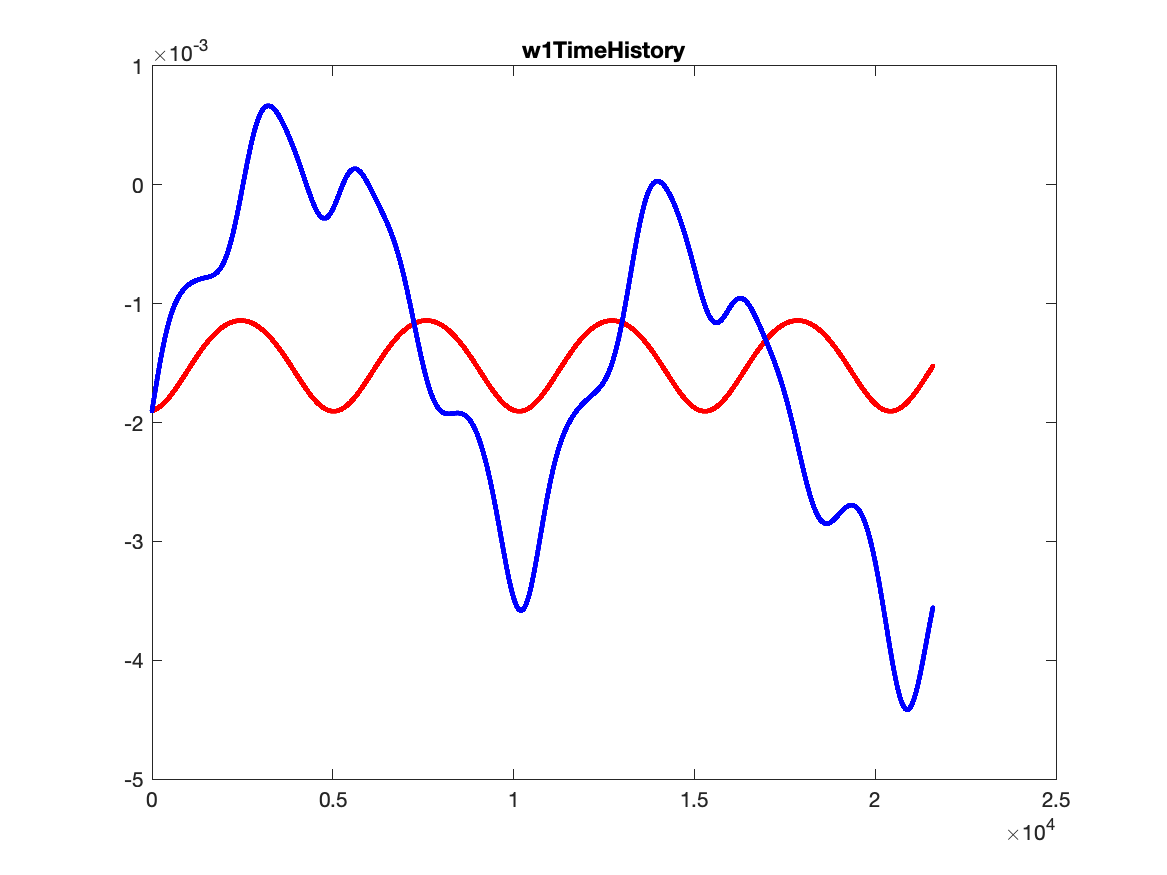
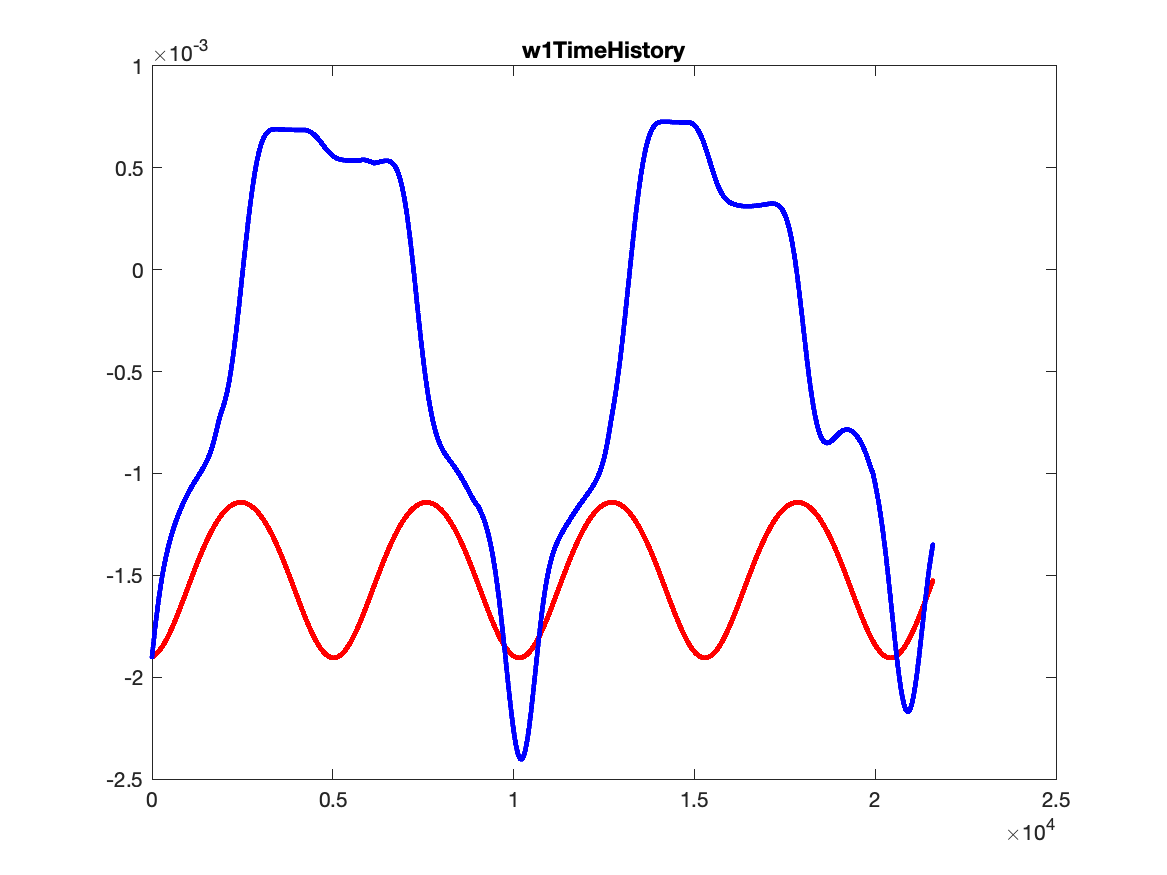
just create gprAtti_euler.m without deep considering

diff --git a/gpr/gprAtti_euler.m b/gpr/gprAtti_euler.m
@@ -39,26 +39,26 @@ t_mApp = readmatrix('train_data_using_yoshimulibrary/t_mApp_flatPlate002.csv');
 Dp_test = readmatrix('train_data_using_yoshimulibrary/Dp_flatPlate001.csv'); 
 t_mApp_test = readmatrix('train_data_using_yoshimulibrary/t_mApp_flatPlate001.csv');
 
-xtrain = [q2zyx_h(Dp(:,1:4)) Dp(:,5:7)]; % 学習データの入力
-xtest = Dp_test(:,1:7); % テストデータの入力
+xtrain = [q2zyx_h(Dp(:,1:4)) Dp(:,5:7)]; % 学習データの入力 (Euler angleに変換)
+xtest = [q2zyx_h(Dp_test(:,1:4)) Dp_test(:,5:7)]; % テストデータの入力 (Euler angleに変換)
 
 % 学習データ，テストデータの出力（姿勢，ライトカーブ）
 Lx = length(xtrain(1,:)); Ly = Lx + 1; % 出力の次元はライトカーブで1増える
 Ntrain = length(xtrain(:,1)) - 1; Ntest = length(xtest) - 1; %今回扱う学習データの次元とデータ数(出力が差分だから-1)
-ytrain = zeros(Ntrain, Ly); ytest = zeros(Ntest, Ly); % 
+ytrain = zeros(Ntrain, Ly); ytest = zeros(Ntest, Ly);
 for i = 1:1:(Ntrain)
-    ytrain(i,1:4) = q_error(xtrain(i,1:4)', xtrain(i+1,1:4)')';
-    ytrain(i,5:7) = xtrain(i+1,5:7) - xtrain(i,5:7);
+    ytrain(i,1:6) = xtrain(i+1,1:6) - xtrain(i,1:6);
 %     ytrain(i,8) = t_mApp(i+1,2) - t_mApp(i,2);
-    ytrain(i,8) = t_mApp(i,2); % ライトカーブは差分じゃなくそのままを学習するようにした
+    ytrain(i,7) = t_mApp(i,2); % ライトカーブは差分じゃなくそのままを学習するようにした
 end
 for i = 1:1:Ntest
-    ytest(i,1:4) = q_error(xtest(i,1:4)', xtest(i+1,1:4)')';
-    ytest(i,5:7) = xtest(i+1,5:7) - xtest(i,5:7);
+    ytest(i,1:6) = xtest(i+1,1:6) - xtest(i,1:6);
 %     ytest(i,8) = t_mApp_test(i+1,2) - t_mApp_test(i,2);
-    ytest(i,8) = t_mApp_test(i,2);
+    ytest(i,7) = t_mApp_test(i,2);
 end
-ytrain(isnan(ytrain)) = 0; ytrain(~isfinite(ytrain)) = 0;
+ytrain(isnan(ytrain)) = 0; ytrain(~isfinite(ytrain)) = 0; % とりあえずinfとNaNは0にした
+% 学習データとテストデータの平均を0にする
+
 % 学習データとテストデータの出力は作れたので，サイズを統一する
 xtrain = xtrain(1:Ntrain,:); xtest = xtest(1:Ntest,:);
 t_mApp_test = t_mApp_test(1:Ntest,:);
@@ -75,34 +75,23 @@ kv(xtrain(2,:), xtrain, params);
 % params = optimize1(params, xtrain, ytrain);
 
 % 回帰の計算
-xx = [xtest(:, 1:7)];
+xx = xtest;
 yy_mu = zeros(Ntest, Ly); yy_var = zeros(Ntest, Ly);
 % a = gpr(xx, xtrain, ytrain(:,8), params);
 for i = 1:1:length(ytrain(1,:))
     regression = gpr(xx, xtrain, ytrain(:,i), params); % length(xx)行2列？
     yy_mu(:,i) = regression(:,1); yy_var(:,i) = regression(:,2); 
 end
-% クォータニオンの制約を満たすようにしたい
-% とりあえず正規化              
-for i = 1:1:length(yy_mu)
-    yy_mu(i,1:4) = yy_mu(i,1:4) ./ norm(yy_mu(i,1:4));
-end
 
 two_sigma1 = yy_mu - 2 * sqrt(yy_var); two_sigma2 = yy_mu + 2 * sqrt(yy_var);
 
 % 時系列順の姿勢履歴にorganize -----------------------------------------------
-attiIni = xx(1, 1:7); mAppIni = t_mApp_test(1,2);
-attiReg = zeros(Ntest, length(xx(1,:))); attiReg(1,:) = attiIni;
-attiReg_qe = zeros(Ntest, 4); attiReg_qe(1,:) = q_error(Dp_test(1,1:4)',attiReg(1,1:4)')'; % 誤差クォータニオンの初期値
-% mAppReg = zeros(Ntest, 1); mAppReg(1,1) = mAppIni; 
-mAppReg = yy_mu(:,8);
+attiIni = xx(1,:); mAppIni = t_mApp_test(1,2);
+attiReg = zeros(Ntest, Lx); attiReg(1,:) = attiIni; 
+mAppReg = yy_mu(:,Ly);
 for i = 1:1:(Ntest-1)
-    % quaternions
-    attiReg(i+1,1:4) = q_pro(attiReg(i,1:4)', yy_mu(i,1:4)')'; % 転置に注意
-    % 真値と回帰結果の誤差クォータニオンを取る．
-    attiReg_qe(i+1,1:4) = q_error(attiReg(i+1,1:4)', Dp_test(i+1,1:4)')'; % 転置に注意
-    % anglar velocity
-    attiReg(i+1,5:7) = attiReg(i,5:7) + yy_mu(i,5:7);
+    % angle and anglar velocity
+    attiReg(i+1,:) = attiReg(i,:) + yy_mu(i,1:6);
     % Light Curves
 %     mAppReg(i+1,1) = mAppReg(i,1) + yy_mu(i,8);
 end
@@ -120,7 +109,7 @@ hold on;
 plot(xx(:,1), ytest(:,1), 'r.'); % 真値？
 hold on;
 plot(xx(:,1), yy_mu(:,1), 'b.'); % 回帰結果？
-title("q1");
+title("phi");
 
 figure(f2);
 plot(xtrain(:,2), ytrain(:,2), 'k.'); % 学習データ
@@ -128,7 +117,7 @@ hold on;
 plot(xx(:,2), ytest(:,2), 'r.'); % 真値？
 hold on;
 plot(xx(:,2), yy_mu(:,2), 'b.'); % 回帰結果？
-title("q2");
+title("theta");
 
 figure(f3);
 plot(xtrain(:,3), ytrain(:,3), 'k.'); % 学習データ
@@ -136,7 +125,7 @@ hold on;
 plot(xx(:,3), ytest(:,3), 'r.'); % 真値？
 hold on;
 plot(xx(:,3), yy_mu(:,3), 'b.'); % 回帰結果？
-title("q3");
+title("psi");
 
 figure(f4);
 plot(xtrain(:,4), ytrain(:,4), 'k.'); % 学習データ
@@ -144,7 +133,7 @@ hold on;
 plot(xx(:,4), ytest(:,4), 'r.'); % 真値？
 hold on;
 plot(xx(:,4), yy_mu(:,4), 'b.'); % 回帰結果？
-title("q4");
+title("w1");
 
 figure(f5);
 plot(xtrain(:,5), ytrain(:,5), 'k.'); % 学習データ
@@ -152,7 +141,7 @@ hold on;
 plot(xx(:,5), ytest(:,5), 'r.'); % 真値？
 hold on;
 plot(xx(:,5), yy_mu(:,5), 'b.'); % 回帰結果？
-title("w1");
+title("w2");
 
 figure(f6);
 plot(xtrain(:,6), ytrain(:,6), 'k.'); % 学習データ
@@ -160,44 +149,40 @@ hold on;
 plot(xx(:,6), ytest(:,6), 'r.'); % 真値？
 hold on;
 plot(xx(:,6), yy_mu(:,6), 'b.'); % 回帰結果？
-title("w2");
-
-figure(f7);
-plot(xtrain(:,7), ytrain(:,7), 'k.'); % 学習データ
-hold on;
-plot(xx(:,7), ytest(:,7), 'r.'); % 真値？
-hold on;
-plot(xx(:,7), yy_mu(:,7), 'b.'); % 回帰結果？
 title("w3");
 
+% figure(f7);
+% plot(xtrain(:,7), ytrain(:,7), 'k.'); % 学習データ
+% hold on;
+% plot(xx(:,7), ytest(:,7), 'r.'); % 真値？
+% hold on;
+% plot(xx(:,7), yy_mu(:,7), 'b.'); % 回帰結果？
+% title("w3");
+
 figure(f8);
-% plot(t_test, Dp_test(:,1), 'r.'); 
-% hold on;
-% plot(t_test, attiReg(:,1), 'b.');
-% hold on;
-% 元々真値と回帰結果を同時にプロットしていたが，真値と回帰結果の誤差クォータニオンのプロットに変更
-plot(t_test, attiReg_qe(:,1), 'g.');
-filename = "q1errorTimeHistory"; savename = strcat("figures/", filename, ".png");
+plot(t_test, xtest(:,1), 'r.'); 
+hold on;
+plot(t_test, attiReg(:,1), 'b.');
+hold on;
+filename = "phiTimeHistory"; savename = strcat("figures/", filename, ".png");
 title(filename);
 saveas(gcf, savename);
 
 figure(f9);
-% plot(t_test, Dp_test(:,2), 'r.'); 
-% hold on;
-% plot(t_test, attiReg(:,2), 'b.');
-% hold on;
-plot(t_test, attiReg_qe(:,2), 'g.');
-filename = "q2errorTimeHistory"; savename = strcat("figures/", filename, ".png");
+plot(t_test, xtest(:,2), 'r.'); 
+hold on;
+plot(t_test, attiReg(:,2), 'b.');
+hold on;
+filename = "thetaTimeHistory"; savename = strcat("figures/", filename, ".png");
 title(filename);
 saveas(gcf, savename);
 
 figure(f10);
-% plot(t_test, Dp_test(:,3), 'r.'); 
-% hold on;
-% plot(t_test, attiReg(:,3), 'b.');
-% hold on;
-plot(t_test, attiReg_qe(:,3), 'g.');
-filename = "q3errorTimeHistory"; savename = strcat("figures/", filename, ".png");
+plot(t_test, xtest(:,3), 'r.'); 
+hold on;
+plot(t_test, attiReg(:,3), 'b.');
+hold on;
+filename = "psiTimeHistory"; savename = strcat("figures/", filename, ".png");
 title(filename);
 saveas(gcf, savename);
 
@@ -206,8 +191,7 @@ plot(t_test, xtest(:,4), 'r.');
 hold on;
 plot(t_test, attiReg(:,4), 'b.');
 hold on;
-plot(t_test, attiReg_qe(:,4), 'g.');
-filename = "q4errorTimeHistory"; savename = strcat("figures/", filename, ".png");
+filename = "w1TimeHistory"; savename = strcat("figures/", filename, ".png");
 title(filename);
 saveas(gcf, savename);
 
@@ -216,7 +200,7 @@ plot(t_test, xtest(:,5), 'r.');
 hold on;
 plot(t_test, attiReg(:,5), 'b.');
 hold on;
-filename = "w1TimeHistory"; savename = strcat("figures/", filename, ".png");
+filename = "w2TimeHistory"; savename = strcat("figures/", filename, ".png");
 title(filename);
 saveas(gcf, savename);
 
@@ -227,27 +211,19 @@ plot(t_test, xtest(:,6), 'r.');
 hold on;
 plot(t_test, attiReg(:,6), 'b.');
 hold on;
-filename = "w2TimeHistory"; savename = strcat("figures/", filename, ".png");
-title(filename);
-saveas(gcf, savename);
-
-figure(f14);
-plot(t_test, xtest(:,7), 'r.'); 
-hold on;
-plot(t_test, attiReg(:,7), 'b.');
-hold on;
 filename = "w3TimeHistory"; savename = strcat("figures/", filename, ".png");
 title(filename);
 saveas(gcf, savename);
 
-figure(f15);
-plot(t_test, t_mApp_test(:,2), 'r.'); % 真値
+figure(f14);
+plot(t_test, t_mApp_test(:,2), 'r.'); 
 hold on;
-plot(t_test, mAppReg(:,1), 'b.'); % 回帰結果
+plot(t_test, mAppReg(:,1), 'b.');
 hold on;
-filename = "LightCurves"; savename = strcat("figures/", filename, ".png");
+filename = "lightcurves"; savename = strcat("figures/", filename, ".png");
 title(filename);
 saveas(gcf, savename);
+
 
 % -------------------------------------------------------------------------
 
